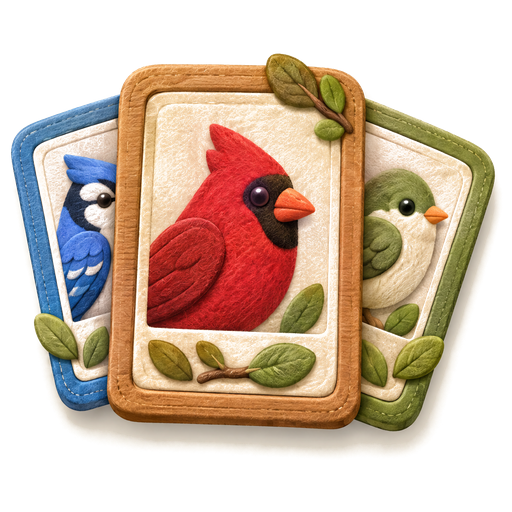
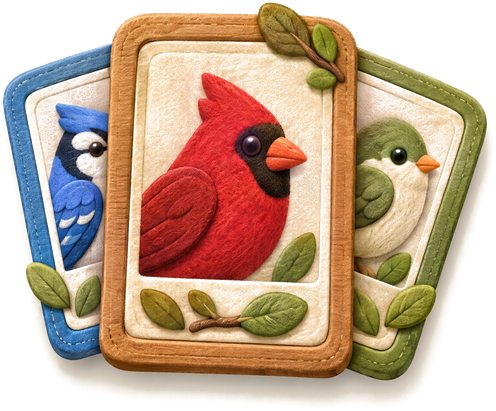
ftb: nav bar holds still while meta pages slide; Play selected on home
Meta pages no longer carry the bar up with them: the overlay stays put and
transparent, a header+body wrapper does the slide behind the bar, and the
home bar is hidden beneath the page's identical one. The selection hands
over from Play to the page tile on open and back on close, so the lift
travels. Play wears the selected treatment on the home screen. The padlock
draws above the icon and pill. The two nav icons are trimmed to their
content and the per-icon scale factors are dropped.

diff --git a/games/find_the_bird/src/ui/HUD.ts b/games/find_the_bird/src/ui/HUD.ts
@@ -534,10 +534,10 @@ function swapMetaPage(page: HTMLElement, id: 'collection' | 'sanctuary'): void {
   }
 }
 
-function setMetaNavActive(page: HTMLElement, id: 'collection' | 'sanctuary'): void {
+function setMetaNavActive(page: HTMLElement, id: 'collection' | 'sanctuary' | 'play'): void {
   const nav = page.querySelector<HTMLElement>('.home-page-nav');
   if (nav === null) return;
-  for (const target of ['collection', 'sanctuary'] as const) {
+  for (const target of ['collection', 'sanctuary', 'play'] as const) {
     const button = nav.querySelector<HTMLButtonElement>(`#home-nav-${target}`);
     if (button === null) continue;
     const active = target === id;
@@ -629,7 +629,9 @@ export function openPage(
   }
 
   const shell = overlay.querySelector<HTMLElement>('#home-shell');
-  shell?.classList.add('home-shell--dimmed');
+  // A meta page keeps the nav bar where it is: the page slides up behind the
+  // bar over an undimmed home, whose own bar is hidden under the page's.
+  shell?.classList.add(META_PAGES.has(id) ? 'home-shell--meta-open' : 'home-shell--dimmed');
 
   const page = document.createElement('div');
   page.id = 'home-page-overlay';
@@ -639,7 +641,10 @@ export function openPage(
   page.setAttribute('role', 'dialog');
   page.setAttribute('aria-modal', 'true');
   page.setAttribute('aria-labelledby', 'home-page-title');
+  const slideOpen = META_PAGES.has(id) ? '<div class="home-page-slide">' : '';
+  const slideClose = META_PAGES.has(id) ? '</div>' : '';
   page.innerHTML = `
+    ${slideOpen}
     <div class="home-page-header">
       <button id="home-page-back" class="home-page-back-btn" type="button" aria-label="Go back">
         <img class="home-page-back-art" src="/ui/page-header/back_button.png" alt="" aria-hidden="true">
@@ -650,7 +655,8 @@ export function openPage(
     <div class="home-page-body">
       ${pageBodyFor(id)}
     </div>
-    ${META_PAGES.has(id) ? `<div class="home-page-nav">${renderMetaNavBar({ active: id as 'collection' | 'sanctuary' })}</div>` : ''}
+    ${slideClose}
+    ${META_PAGES.has(id) ? `<div class="home-page-nav">${renderMetaNavBar({ active: 'play' })}</div>` : ''}
   `;
 
   page.querySelector('#home-page-back')?.addEventListener('click', () => {
@@ -743,7 +749,12 @@ export function openPage(
       if (action && !action.disabled) requestAnimationFrame(() => { action.click(); });
     }
   }
-  requestAnimationFrame(() => { page.classList.add('home-page-overlay--open'); });
+  requestAnimationFrame(() => {
+    page.classList.add('home-page-overlay--open');
+    // The bar starts as home left it (Play selected) and hands the selection
+    // to this page's tile, so the lift travels instead of appearing.
+    if (id === 'collection' || id === 'sanctuary') setMetaNavActive(page, id);
+  });
   // Focus the dialog CONTAINER, not the title: WKWebView draws a native focus
   // ring around a focused heading that CSS cannot remove, and (without
   // preventScroll) scrolls the viewport to reveal it, shoving the page under
@@ -762,6 +773,8 @@ export function closePage(options: { skipHomeCallback?: boolean } = {}): void {
   const shell = overlay?.querySelector<HTMLElement>('#home-shell');
   shell?.classList.remove('home-shell--dimmed');
   shell?.removeAttribute('inert');
+  // Selection travels back to Play while the page slides away.
+  setMetaNavActive(page, 'play');
   if (pageEscapeHandler) document.removeEventListener('keydown', pageEscapeHandler);
   pageEscapeHandler = null;
   pageOpener?.focus({ preventScroll: true });
@@ -770,11 +783,13 @@ export function closePage(options: { skipHomeCallback?: boolean } = {}): void {
   const remove = (): void => {
     page.removeEventListener('transitionend', onTransitionEnd);
     if (page.isConnected) page.remove();
+    shell?.classList.remove('home-shell--meta-open');
   };
   // Tear down only once the slide-down (transform) finishes — NOT the faster
   // opacity fade — otherwise the exit animation is cut short.
   const onTransitionEnd = (e: TransitionEvent): void => {
-    if (e.target === page && e.propertyName === 'transform') remove();
+    const slide = page.querySelector('.home-page-slide');
+    if ((e.target === page || e.target === slide) && e.propertyName === 'transform') remove();
   };
   page.addEventListener('transitionend', onTransitionEnd);
   // Fallback: transform transition is 340ms; +80ms buffer for transitionend latency.

diff --git a/games/find_the_bird/src/ui/styles.css b/games/find_the_bird/src/ui/styles.css
@@ -6006,3 +6006,45 @@ body:has(#home-page-overlay) #tutorial-overlay { display: none; }
   letter-spacing: 0.2px;
   text-shadow: 0 1px 0 rgba(0, 0, 0, 0.35);
 }
+
+/* Meta pages slide up BEHIND a nav bar that never moves: the overlay itself
+   stays put and transparent, its header+body wrapper carries the slide, and
+   the home bar underneath is hidden because the page's bar sits exactly on
+   top of it. */
+.home-page-overlay:is(.home-page-collection, .home-page-sanctuary) {
+  transform: none;
+  opacity: 1;
+  background: transparent;
+  box-shadow: none;
+  border-radius: 0;
+  transition: none;
+  overflow: visible;
+}
+.home-page-overlay .home-page-slide {
+  flex: 1 1 auto;
+  display: flex;
+  flex-direction: column;
+  min-height: 0;
+  background: #fffaf2;
+  border-radius: 20px 20px 0 0;
+  overflow: hidden;
+  box-shadow: 0 -6px 32px rgba(128, 80, 27, 0.16);
+  /* Runs on under the bar's top padding so nothing of home shows through
+     the strip between the page body and the bar. */
+  margin-bottom: -30px;
+  padding-bottom: 30px;
+  transform: translateY(110%);
+  opacity: 0.4;
+  transition: transform 340ms cubic-bezier(0.22, 1.02, 0.32, 1), opacity 200ms ease-out;
+}
+.home-page-overlay--open .home-page-slide {
+  transform: translateY(0);
+  opacity: 1;
+}
+#home-shell.home-shell--meta-open .home-nav-bar { visibility: hidden; }
+@media (prefers-reduced-motion: reduce) {
+  .home-page-overlay .home-page-slide { transition: none; }
+}
+
+/* The padlock sits in front of the icon and the level pill. */
+:is(#home-shell, .home-page-nav) .home-nav-btn--locked::after { z-index: 3; }

diff --git a/games/find_the_bird/src/ui/metaNavBar.ts b/games/find_the_bird/src/ui/metaNavBar.ts
@@ -117,7 +117,6 @@ export function renderMetaNavBar(options: MetaNavOptions = {}): string {
         pop: pop && gates.sanctuaryPopPending,
         lockedLabel: `Sanctuary, locked until level ${String(sanctuaryUnlockLevel())}`,
         unlockLevel: sanctuaryUnlockLevel(),
-        iconScale: 1.01,
         badge: coins,
       })}
       ${tile({
@@ -125,12 +124,9 @@ export function renderMetaNavBar(options: MetaNavOptions = {}): string {
         label: 'Play',
         icon: '/ui/menu-icons/magnifier-runtime.png',
         locked: false,
-        active: false,
+        active: options.active === 'play',
         pop: false,
         lockedLabel: 'Play',
-        // Ink-area equalisation over-weighted a thin object: at 1.19 the
-        // magnifier read as the SELECTED tile. Trimmed to a gentle lift.
-        iconScale: 1.06,
       })}
       ${tile({
         id: 'home-nav-collection',

diff --git a/games/find_the_bird/src/scenes/HomeScene.ts b/games/find_the_bird/src/scenes/HomeScene.ts
@@ -618,6 +618,9 @@ export class HomeScene extends Phaser.Scene {
         </div>
 
         ${renderMetaNavBar({
+          // On the home screen Play is the place you are, so it wears the
+          // selected treatment; a meta page hands it over to its own tile.
+          active: 'play',
           achievements: { enabled: achievementsEnabled, claimable: claimableAchievements },
           allowUnlockPop: true,
         })}
